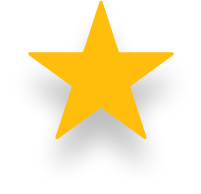
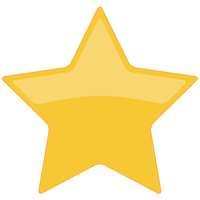
updating reward pictures

diff --git a/constants/index.js b/constants/index.js
@@ -62,7 +62,7 @@ const GAMES_SECTIONS = [
 
 const REWARD_TYPES = {
   COINS: { image: "/images/coin.png", name: "Coins", label: "coins" },
-  STARS: { image: "/images/stars.png", name: "Stars", label: "stars" },
+  STARS: { image: "/images/star.png", name: "Stars", label: "stars" },
   STAR_PERCENTAGE: {
     image: "/images/star_percentage.png",
     name: "Star Percentage",
